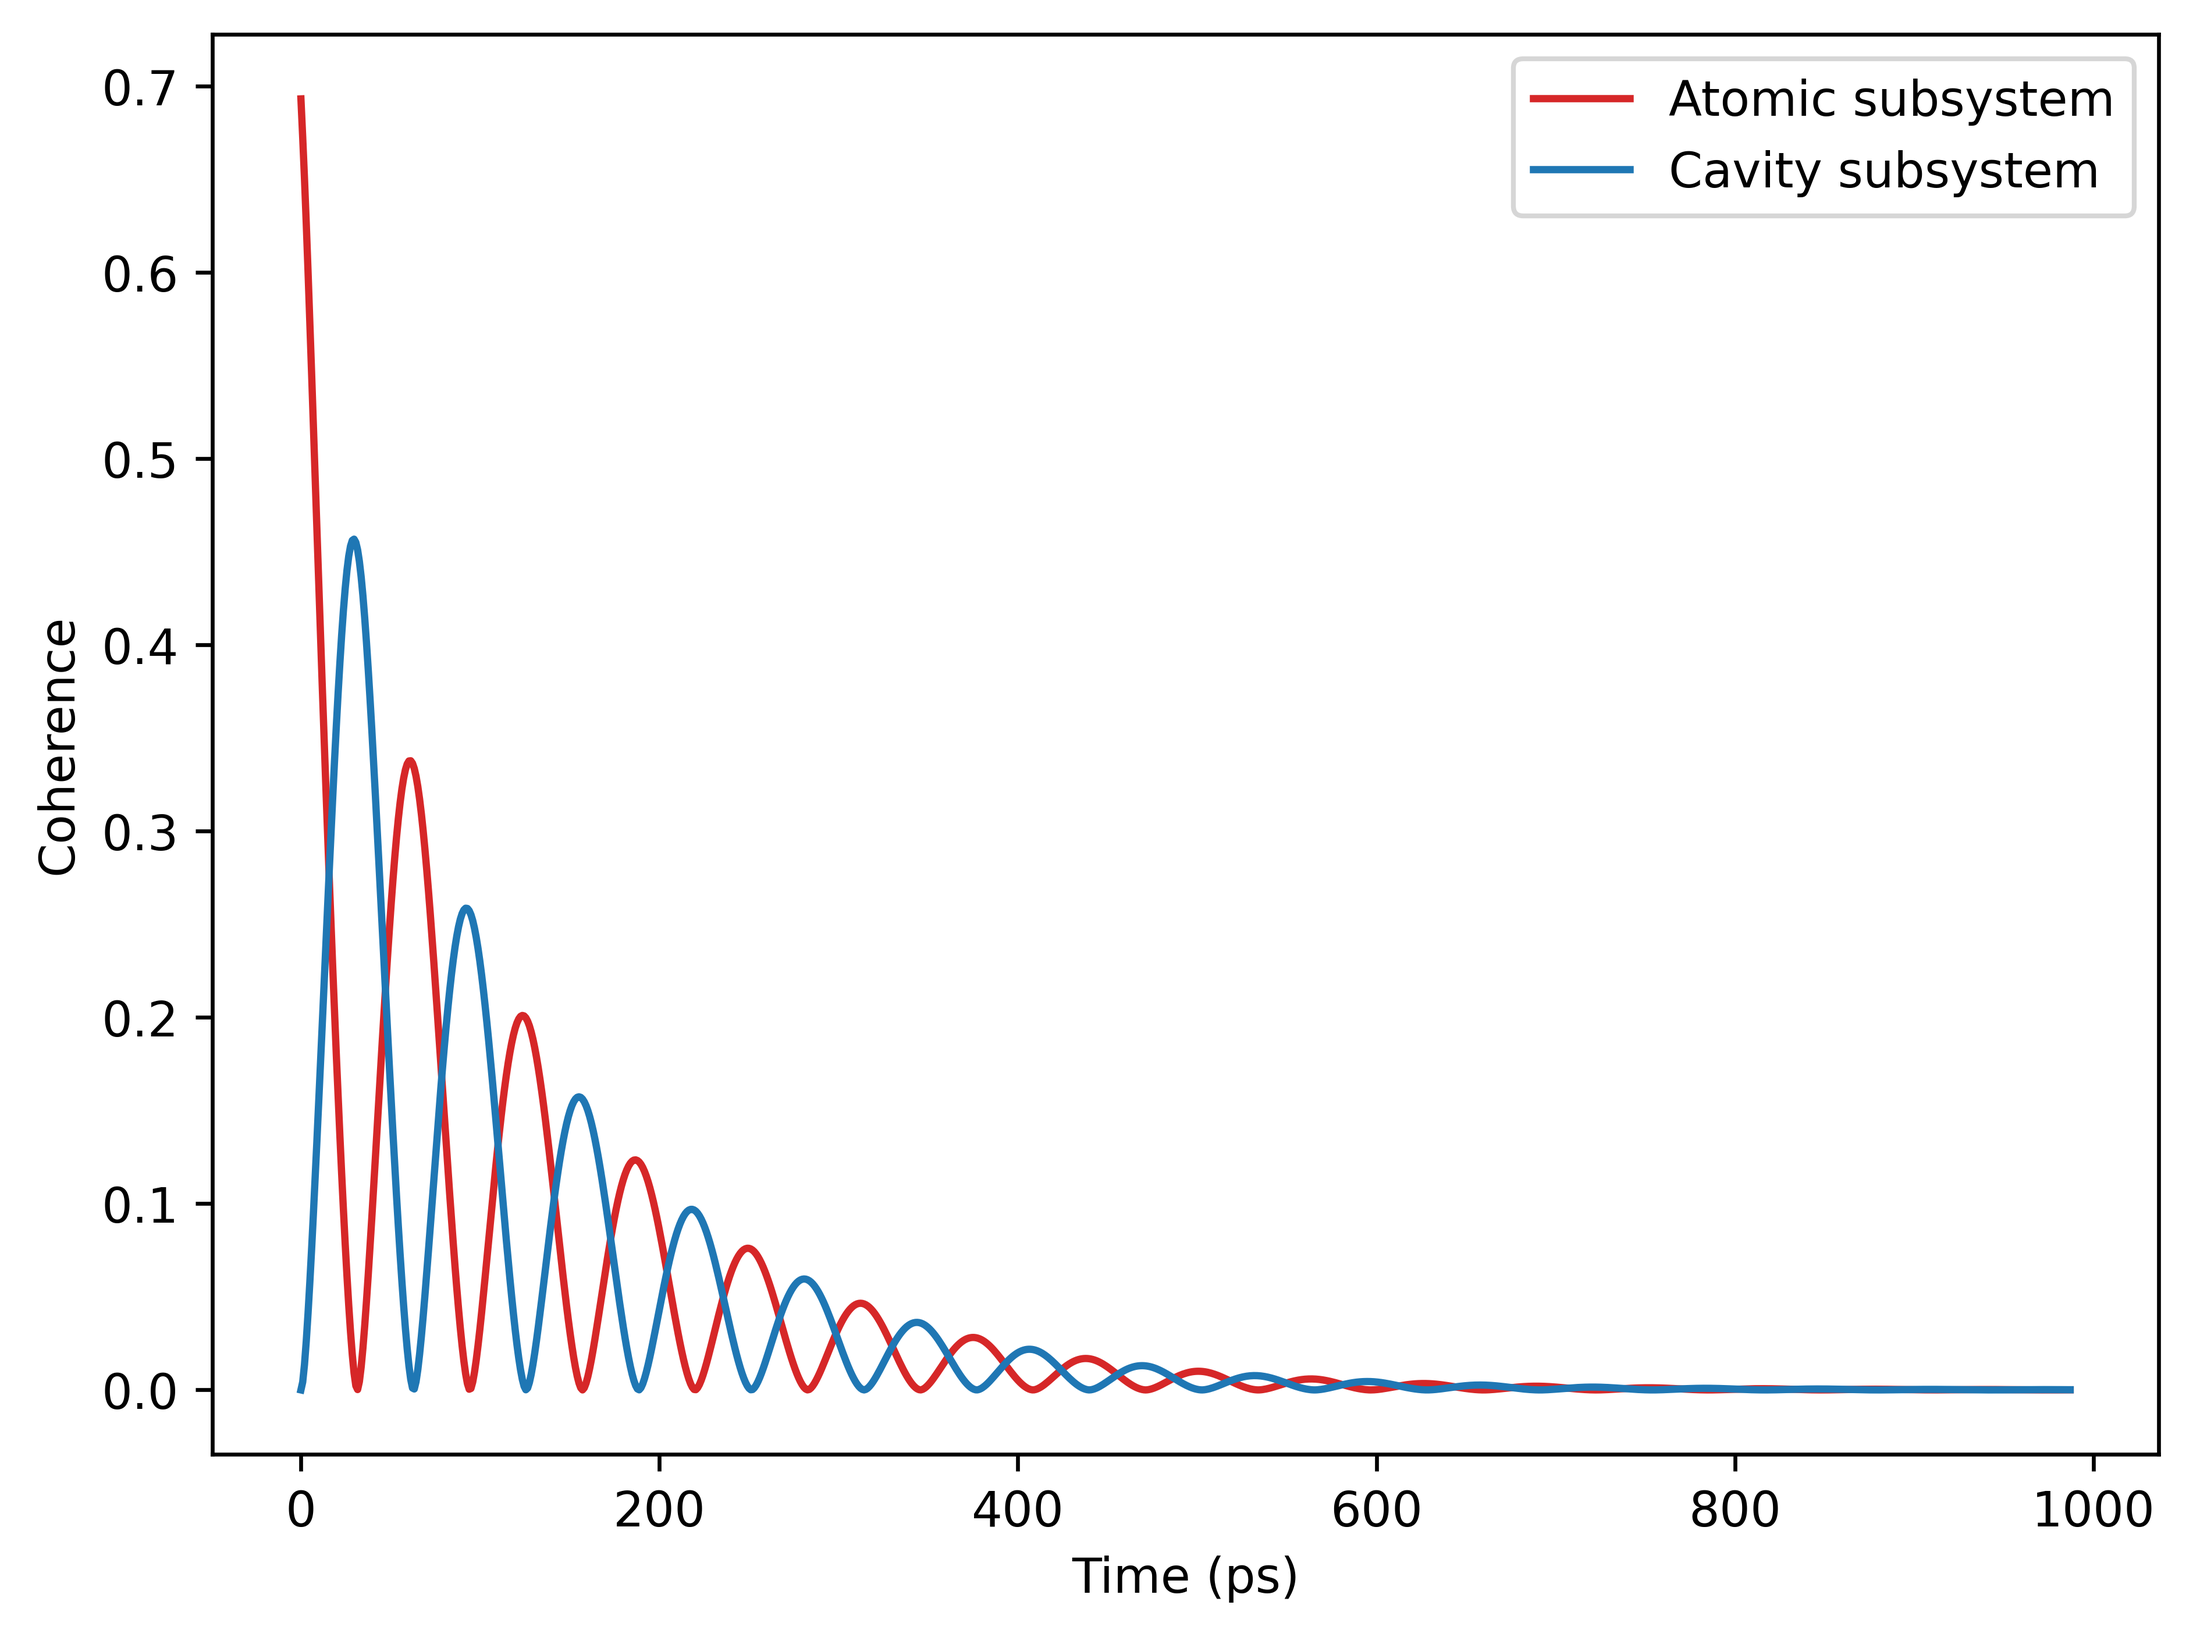
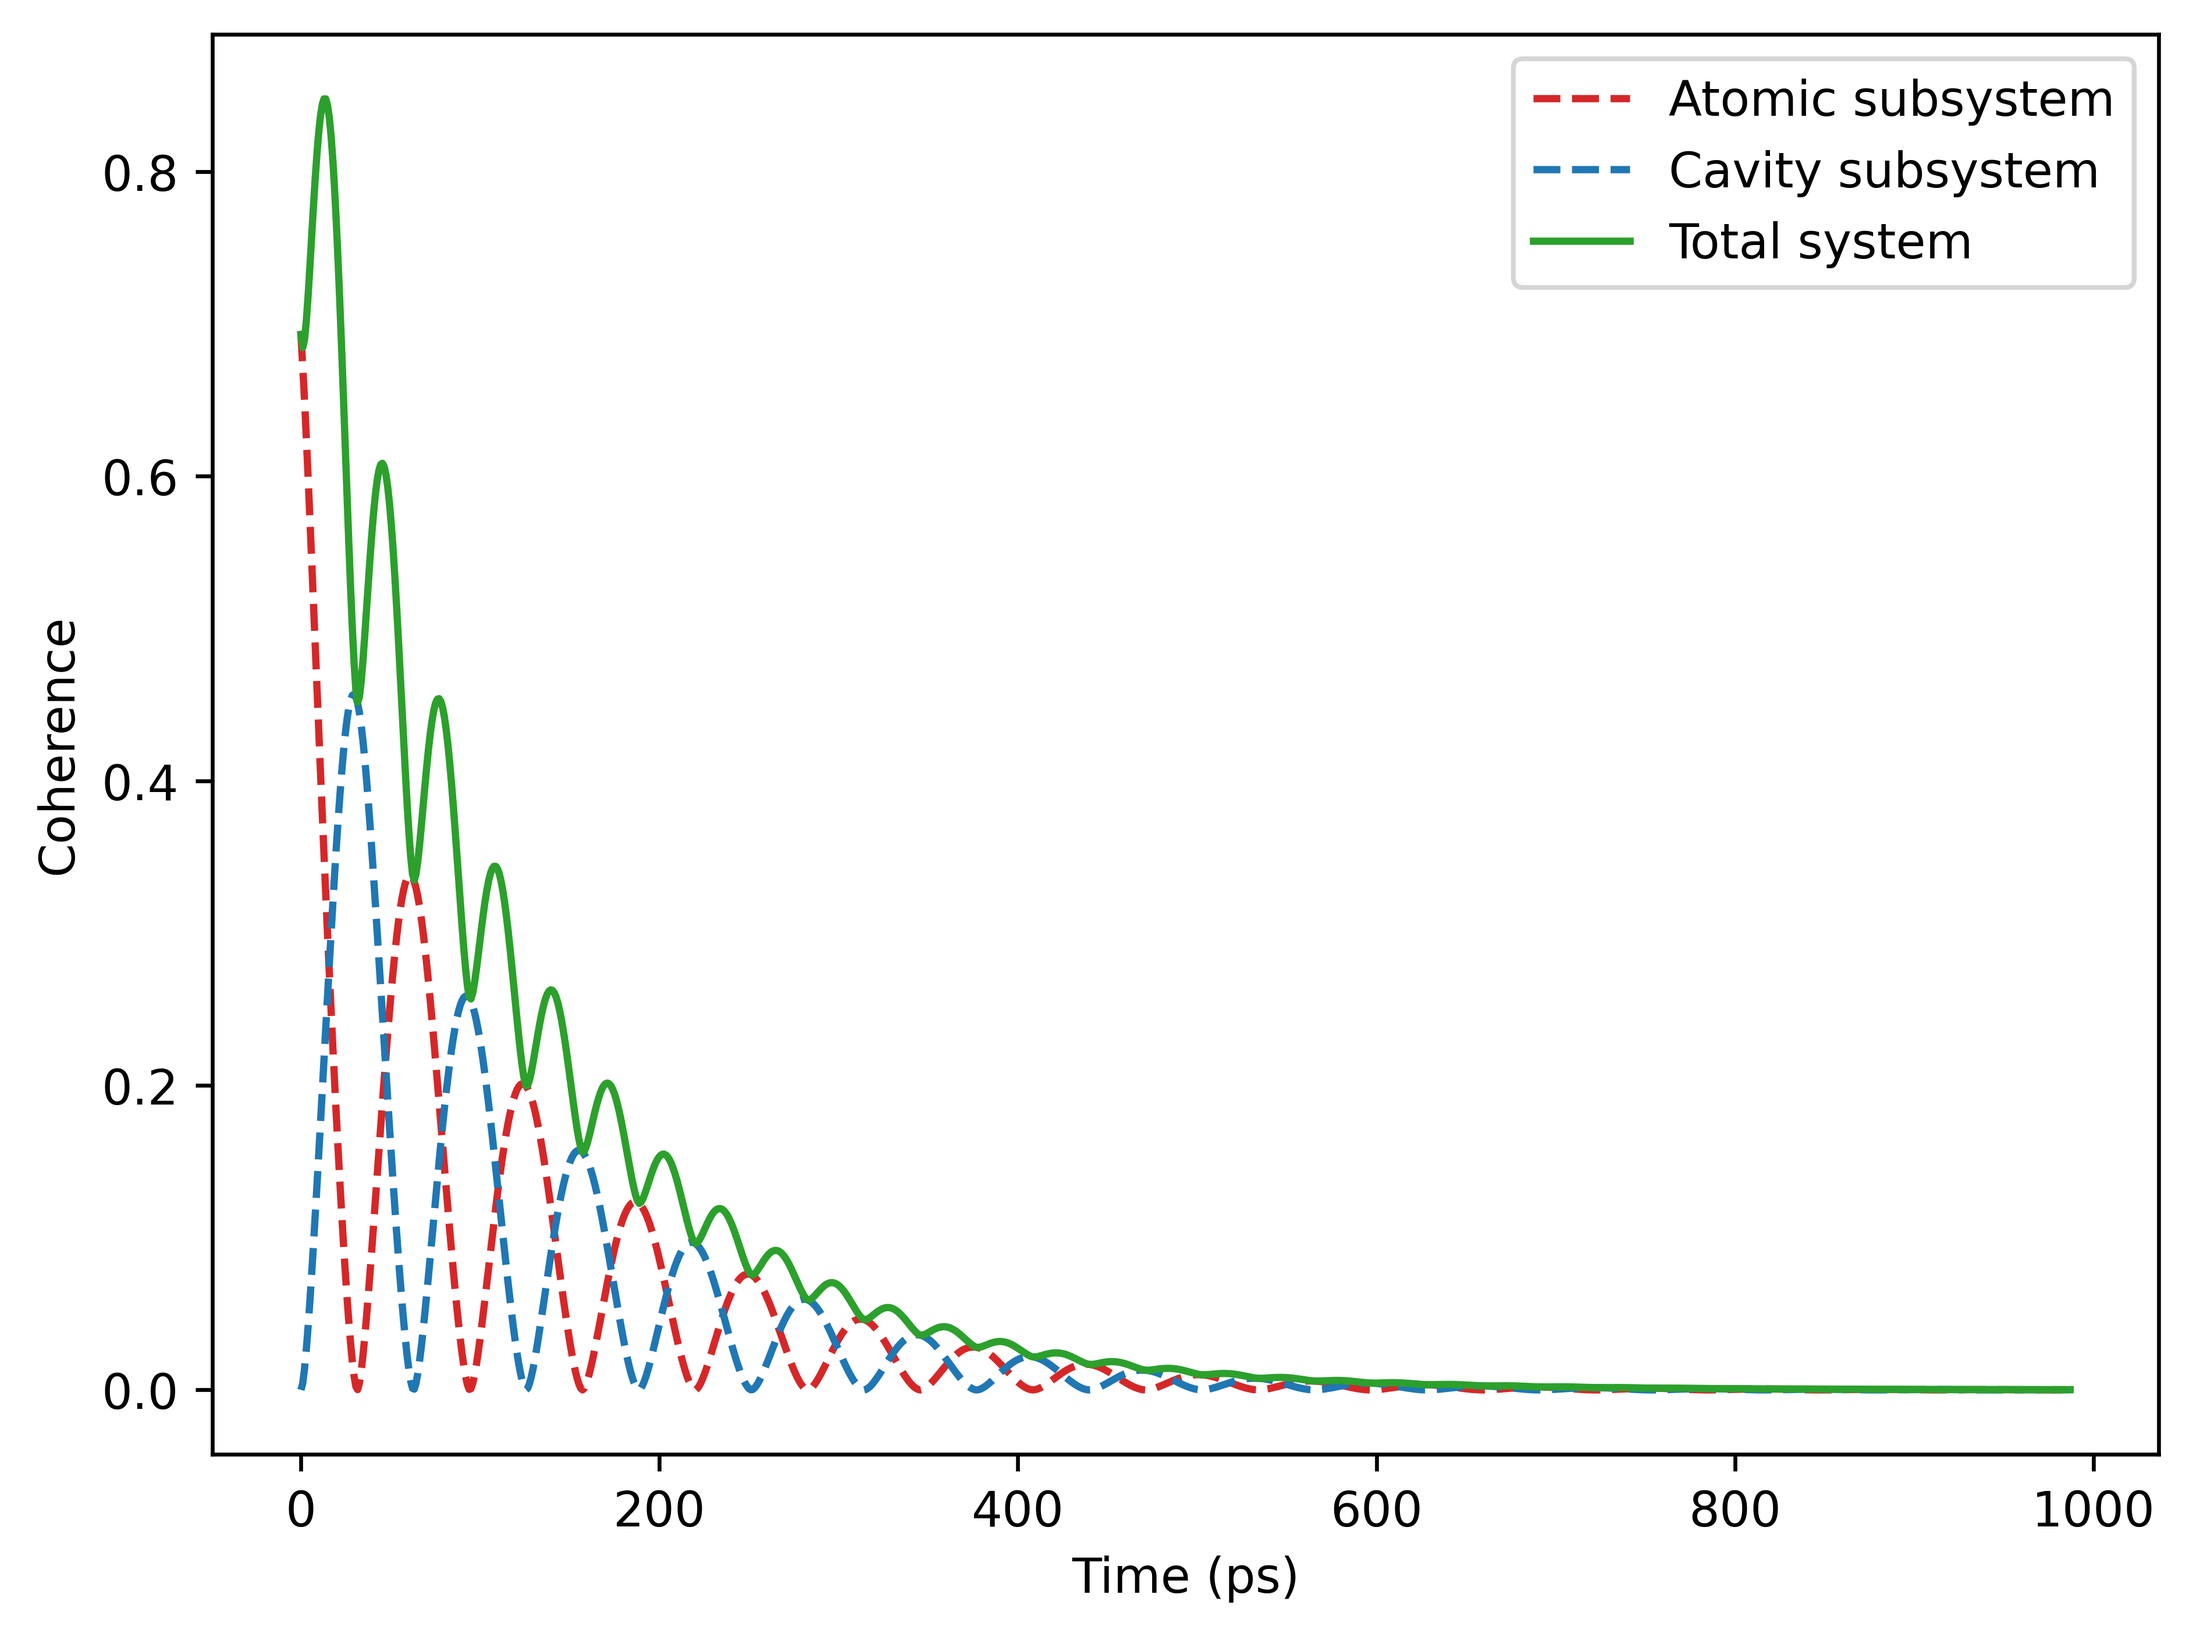
Adds total subsystem coherence for open evolution of JCM.

diff --git a/Research Project/Code/JCM_Open_eg.py b/Research Project/Code/JCM_Open_eg.py
@@ -64,6 +64,7 @@ neg_spont = sim_open_spont.negativity(results_open_spont, subsys="TLS")
 
 coh_tls_spont = sim_open_spont.rel_coherence(results_open_spont, subsys="TLS")
 coh_qho_spont = sim_open_spont.rel_coherence(results_open_spont, subsys="QHO")
+coh_tot_spont = sim_open_spont.rel_coherence(results_open_spont)
 
 # Thermal Dissipation
 sim_open_therm = TLSQHOSimulator(H, psi0, L_therm, e_ops, times=tlist)
@@ -75,6 +76,7 @@ neg_therm = sim_open_therm.negativity(results_open_therm, subsys="TLS")
 
 coh_tls_therm = sim_open_therm.rel_coherence(results_open_therm, subsys="TLS")
 coh_qho_therm = sim_open_therm.rel_coherence(results_open_therm, subsys="QHO")
+coh_tot_therm = sim_open_therm.rel_coherence(results_open_therm)
 
 # Spontaneous Emission + Thermal Dissipation
 L_both = L_spont + L_therm
@@ -87,7 +89,7 @@ neg_both = sim_open_both.negativity(results_open_both, subsys="TLS")
 
 coh_tls_both = sim_open_both.rel_coherence(results_open_both, subsys="TLS")
 coh_qho_both = sim_open_both.rel_coherence(results_open_both, subsys="QHO")
-
+coh_tot_both = sim_open_both.rel_coherence(results_open_both)
 
 ############################### PLOTS #####################################
 # Negativity
@@ -137,11 +139,18 @@ sim_open_spont.plot(
             "y_data": coh_tls_spont,
             "label": "Atomic subsystem",
             "colour": "tab:red",
+            "linestyle": "--",
         },
         {
             "y_data": coh_qho_spont,
             "label": "Cavity subsystem",
             "colour": "tab:blue",
+            "linestyle": "--",
+        },
+        {
+            "y_data": coh_tot_spont,
+            "label": "Total system",
+            "colour": "tab:green",
         },
     ],
     "Coherence",
@@ -155,11 +164,18 @@ sim_open_therm.plot(
             "y_data": coh_tls_therm,
             "label": "Atomic subsystem",
             "colour": "tab:red",
+            "linestyle": "--",
         },
         {
             "y_data": coh_qho_therm,
             "label": "Cavity subsystem",
             "colour": "tab:blue",
+            "linestyle": "--",
+        },
+        {
+            "y_data": coh_tot_therm,
+            "label": "Total system",
+            "colour": "tab:green",
         },
     ],
     "Coherence",
@@ -173,11 +189,18 @@ sim_open_both.plot(
             "y_data": coh_tls_both,
             "label": "Atomic subsystem",
             "colour": "tab:red",
+            "linestyle": "--",
         },
         {
             "y_data": coh_qho_both,
             "label": "Cavity subsystem",
             "colour": "tab:blue",
+            "linestyle": "--",
+        },
+        {
+            "y_data": coh_tot_both,
+            "label": "Total system",
+            "colour": "tab:green",
         },
     ],
     "Coherence",
